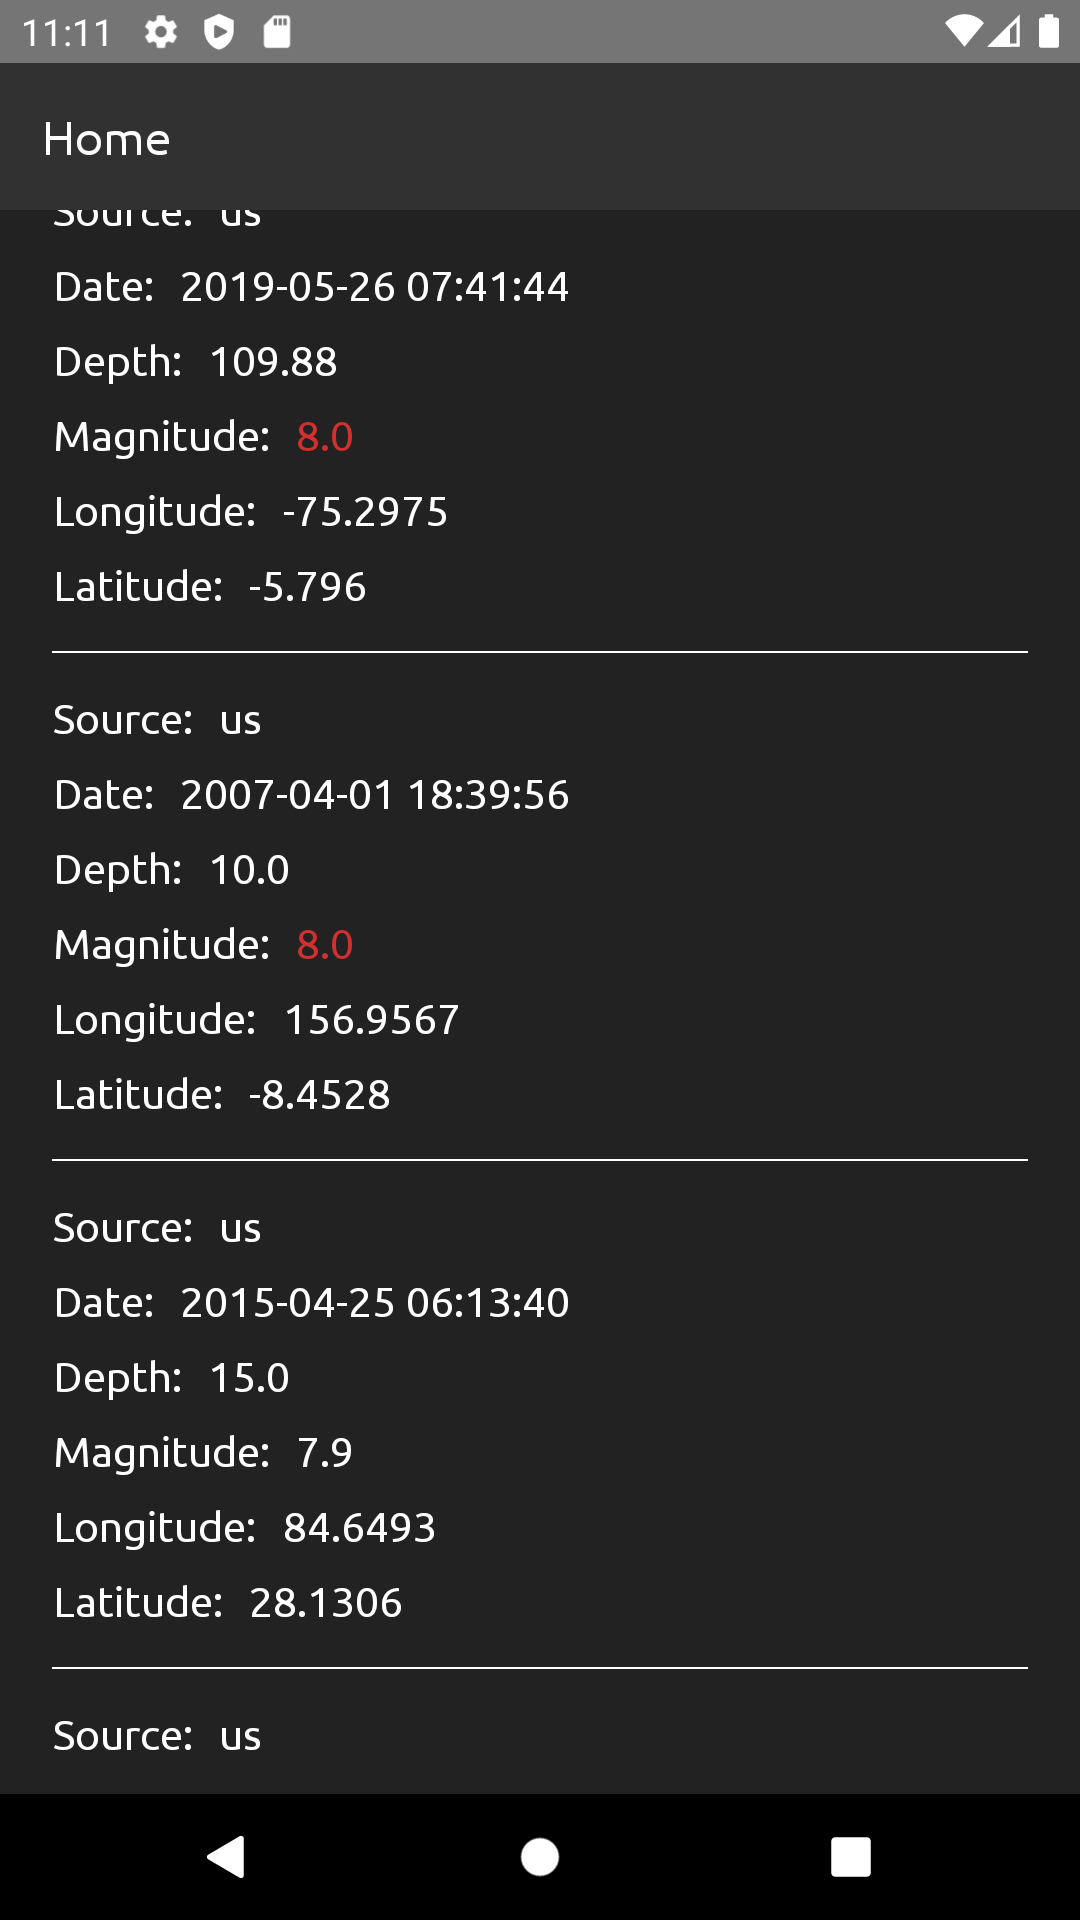
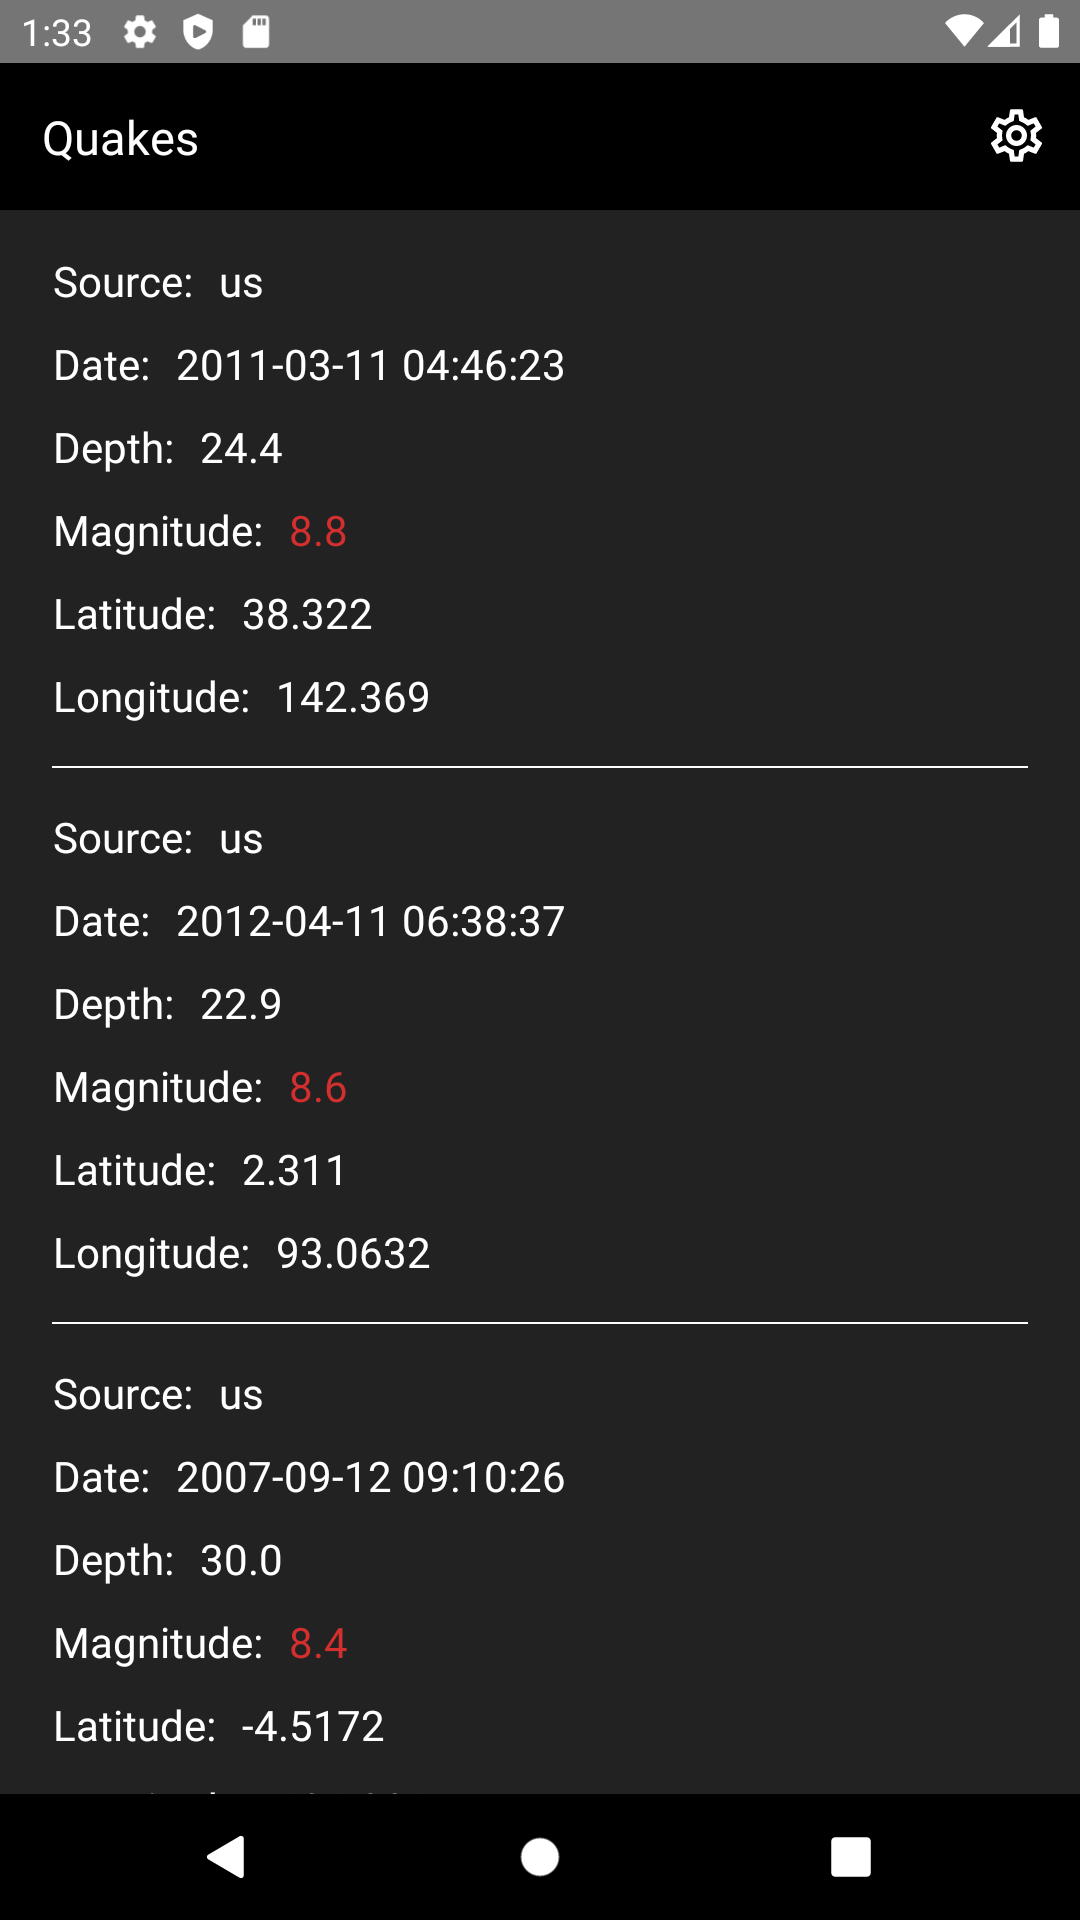
added screenshots

diff --git a/README.md b/README.md
@@ -35,3 +35,6 @@ sharedTest folder.
 
 #### Map
 ![Alt text](screenshots/map-1.png?raw=true "app screenshot")
+
+#### Settings
+![Alt text](screenshots/settings-1.png?raw=true "app screenshot")
